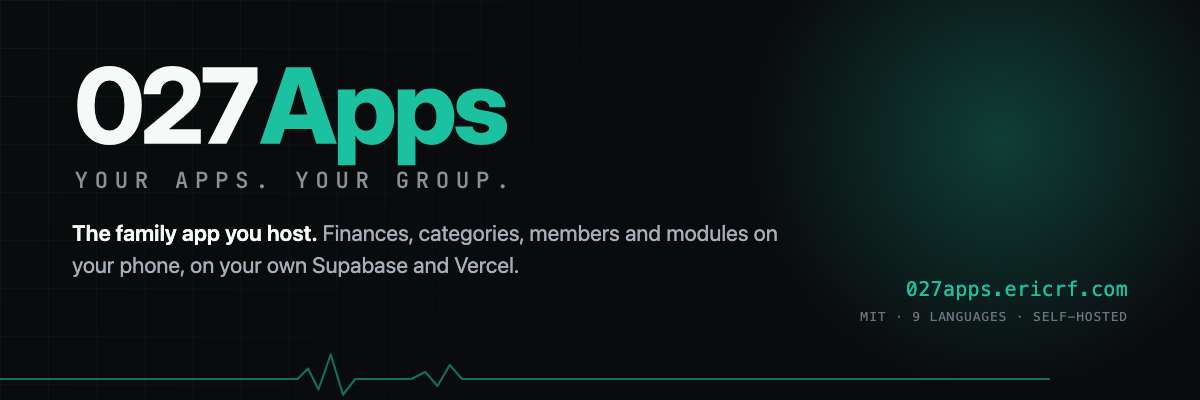
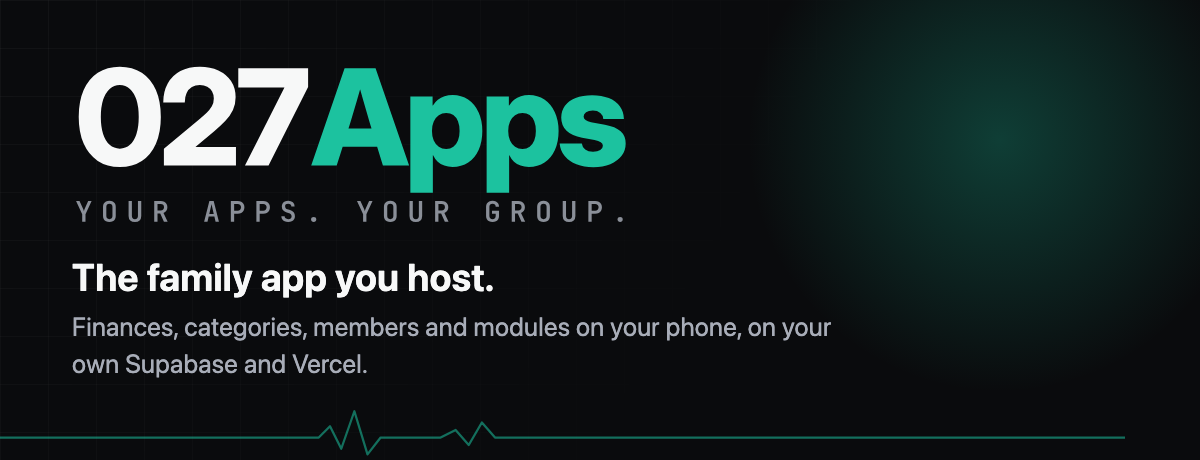
docs: tune the README for a phone screen
The wide banner now carries only the wordmark and two lines, so it stays
readable when GitHub scales it down; the screens are stacked instead of a
two-column table, and only the website and license badges remain.

diff --git a/docs/brand/readme-banner.html b/docs/brand/readme-banner.html
@@ -5,7 +5,7 @@
   * { box-sizing: border-box; }
   html, body { margin: 0; padding: 0; }
   body {
-    width: 1200px; height: 400px; overflow: hidden;
+    width: 1200px; height: 460px; overflow: hidden;
     background: #0a0b0d;
     color: #f7f8f8;
     font-family: -apple-system, BlinkMacSystemFont, "Segoe UI", Helvetica, Arial, sans-serif;
@@ -23,29 +23,22 @@
     mask-image: linear-gradient(120deg, rgba(0,0,0,.9), transparent 62%);
   }
   .wrap { position: relative; padding: 64px 72px; }
-  .wordmark { width: 440px; height: auto; display: block; }
+  .wordmark { width: 560px; height: auto; display: block; }
   .tag {
-    margin: 28px 0 0; max-width: 720px;
-    font-size: 22px; line-height: 1.45; color: #a8adb8; letter-spacing: .1px;
+    margin: 30px 0 0; max-width: 780px;
+    font-size: 26px; line-height: 1.4; color: #a8adb8; letter-spacing: .1px;
   }
-  .tag b { color: #f7f8f8; font-weight: 600; }
-  .meta {
-    position: absolute; right: 72px; bottom: 76px; text-align: right;
-    font-family: "JetBrains Mono", "SFMono-Regular", Consolas, monospace;
+  .tag b {
+    display: block; margin-bottom: 10px;
+    color: #f7f8f8; font-weight: 650; font-size: 38px; line-height: 1.15;
   }
-  .meta .url { color: #1cc29f; font-size: 20px; letter-spacing: .3px; }
-  .meta .small { margin-top: 8px; color: #6f7480; font-size: 13px; letter-spacing: .8px; text-transform: uppercase; }
-  .pulse { position: absolute; left: 0; right: 0; bottom: 0; height: 56px; opacity: .55; }
+  .pulse { position: absolute; left: 0; right: 0; bottom: 0; height: 60px; opacity: .55; }
 </style>
 <div class="glow"></div>
 <div class="grid"></div>
 <div class="wrap">
   <svg class="wordmark" xmlns="http://www.w3.org/2000/svg" viewBox="0 0 418.1 120.3" width="418" height="120"><g fill="#F7F8F8"><path d="M35.25718304774425 77.09765625Q25.683607578277588 77.09765625 18.797852516174316 72.53906321525574Q11.912097454071045 67.98047018051147 8.225568056106567 59.582032680511475Q4.53903865814209 51.183595180511475 4.53903865814209 39.57921609681906Q4.53903865814209 27.962889194488525 8.224275405244315 19.54648228183047Q11.90951215234654 11.130075369172417 18.791066099147493 6.565037684586208Q25.672620045948445 2.0 35.256258362436505 2.0Q44.87700653076172 2.0 51.75006580352783 6.558593034744263Q58.623125076293945 11.117186069488525 62.303795337677 19.540037631988525Q65.98446559906006 27.962889194488525 65.98446559906006 39.60214896814009Q65.98446559906006 51.19258061679166 62.303795337677 59.605080324570146Q58.623125076293945 68.01758003234863 51.75006580352783 72.55761814117432Q44.87700653076172 77.09765625 35.25718304774425 77.09765625ZM35.26586430137222 63.34757995605469Q39.67775297164917 63.34757995605469 42.85254669189453 60.48235487937927Q46.02734041213989 57.61712980270386 47.736318826675415 52.293904542922974Q49.44529724121094 46.97067928314209 49.44529724121094 39.592956321535134Q49.44529724121094 32.17580509185791 47.736318826675415 26.846720695495605Q46.02734041213989 21.5176362991333 42.8451247215271 18.633856296539307Q39.66290903091431 15.750076293945312 35.27288508415222 15.750076293945312Q30.882861137390137 15.750076293945312 27.689512491226196 18.633856296539307Q24.496163845062256 21.5176362991333 22.787185430526733 26.846720695495605Q21.07820701599121 32.17580509185791 21.07820701599121 39.592956321535134Q21.07820701599121 46.97067928314209 22.787185430526733 52.293904542922974Q24.496163845062256 57.61712980270386 27.69362466399734 60.48235487937927Q30.89108548293243 63.34757995605469 35.26586430137222 63.34757995605469Z"/><path d="M68.28319835662842 75.92578125V63.39446496963501L95.27540016174316 40.94916772842407Q97.94724988937378 38.66794300079346 100.31443047523499 36.46580767631531Q102.68161106109619 34.26367235183716 104.16012811660767 31.688483476638794Q105.63864517211914 29.11329460144043 105.63864517211914 25.847675323486328Q105.63864517211914 22.802772045135498 104.35154247283936 20.53325366973877Q103.06443977355957 18.26373529434204 100.72753834724426 17.006905794143677Q98.39063692092896 15.750076293945312 95.19924926757812 15.750076293945312Q91.77739429473877 15.750076293945312 89.2324845790863 17.28717875480652Q86.68757486343384 18.824281215667725 85.29597926139832 21.736379384994507Q83.9043836593628 24.64847755432129 83.9043836593628 28.78518295288086H67.7968602180481Q67.7968602180481 20.582046031951904 71.14061522483826 14.570321559906006Q74.48437023162842 8.558597087860107 80.63477087020874 5.279298543930054Q86.78517150878906 2.0 95.22464084625244 2.0Q102.9883246421814 2.0 109.02935075759888 4.789062261581421Q115.07037687301636 7.578124523162842 118.51276564598083 12.719728469848633Q121.95515441894531 17.861332416534424 121.95515441894531 24.912120819091797Q121.95515441894531 30.15626859664917 119.96784615516663 34.375019788742065Q117.98053789138794 38.59377098083496 114.3408875465393 42.428727865219116Q110.70123720169067 46.26368474960327 105.73835182189941 50.441410064697266L92.07241344451904 62.00382900238037V62.10148525238037H122.20905828475952V75.92578125Z"/><path d="M128.94335412979126 75.92578125 158.49018716812134 17.67586660385132V17.58992862701416H123.95116710662842V3.171875H176.19733238220215V17.187573432922363L146.59580612182617 75.92578125Z"/></g><g fill="#1CC29F"><path d="M178.51170921325684 75.92578125 203.51168537139893 3.171875H226.68373012542725L251.79894590377808 75.92578125H232.1816267967224L222.3164620399475 43.953277587890625Q219.94926357269287 35.93369913101196 217.6055076122284 27.782299041748047Q215.26175165176392 19.63089895248413 212.78910064697266 10.103549480438232H217.55475425720215Q215.00788354873657 19.63089895248413 212.62701773643494 27.782299041748047Q210.2461519241333 35.93369913101196 207.7930154800415 43.953277587890625L197.59972715377808 75.92578125ZM195.68167352676392 61.93562936782837V48.18555307388306H234.66609144210815V61.93562936782837Z"/><path d="M252.72459030151367 96.3359375V24.36328125H269.36532497406006V31.089832305908203H269.57431077957153Q271.12313747406006 28.46874189376831 273.30965638160706 26.731439352035522Q275.49617528915405 24.994136810302734 278.3057415485382 24.11620807647705Q281.11530780792236 23.238279342651367 284.43562030792236 23.238279342651367Q290.9883522987366 23.238279342651367 295.96198439598083 26.644529819488525Q300.9356164932251 30.050780296325684 303.75592947006226 36.09960865974426Q306.5762424468994 42.14843702316284 306.5762424468994 50.070311546325684Q306.5762424468994 58.20312690734863 303.811594247818 64.27051019668579Q301.0469460487366 70.33789348602295 296.05475902557373 73.69433832168579Q291.0625720024109 77.05078315734863 284.28718090057373 77.05078315734863Q280.8926486968994 77.05078315734863 278.0996823310852 76.0429699420929Q275.306715965271 75.03515672683716 273.1875801086426 73.08203172683716Q271.06844425201416 71.12890672683716 269.7325134277344 68.26172065734863H269.56063747406006V96.3359375ZM279.566433429718 63.60539388656616Q282.68555641174316 63.60539388656616 284.9160099029541 61.983330965042114Q287.14646339416504 60.361268043518066 288.3573913574219 57.326128005981445Q289.5683193206787 54.290987968444824 289.5683193206787 50.070311546325684Q289.5683193206787 45.8379168510437 288.3573913574219 42.83988666534424Q287.14646339416504 39.841856479644775 284.9160099029541 38.21979355812073Q282.68555641174316 36.59773063659668 279.566433429718 36.59773063659668Q276.414110660553 36.59773063659668 273.99322628974915 38.266666650772095Q271.5723419189453 39.93560266494751 270.2246928215027 42.945351123809814Q268.87704372406006 45.95509958267212 268.87704372406006 50.070311546325684Q268.87704372406006 54.173805236816406 270.2246928215027 57.22066354751587Q271.5723419189453 60.26752185821533 273.99322628974915 61.93645787239075Q276.414110660553 63.60539388656616 279.566433429718 63.60539388656616Z"/><path d="M309.8085746765137 96.3359375V24.36328125H326.44930934906006V31.089832305908203H326.65829515457153Q328.20712184906006 28.46874189376831 330.39364075660706 26.731439352035522Q332.58015966415405 24.994136810302734 335.3897259235382 24.11620807647705Q338.19929218292236 23.238279342651367 341.51960468292236 23.238279342651367Q348.0723366737366 23.238279342651367 353.04596877098083 26.644529819488525Q358.0196008682251 30.050780296325684 360.83991384506226 36.09960865974426Q363.6602268218994 42.14843702316284 363.6602268218994 50.070311546325684Q363.6602268218994 58.20312690734863 360.895578622818 64.27051019668579Q358.1309304237366 70.33789348602295 353.13874340057373 73.69433832168579Q348.1465563774109 77.05078315734863 341.37116527557373 77.05078315734863Q337.9766330718994 77.05078315734863 335.1836667060852 76.0429699420929Q332.390700340271 75.03515672683716 330.2715644836426 73.08203172683716Q328.15242862701416 71.12890672683716 326.8164978027344 68.26172065734863H326.64462184906006V96.3359375ZM336.650417804718 63.60539388656616Q339.76954078674316 63.60539388656616 341.9999942779541 61.983330965042114Q344.23044776916504 60.361268043518066 345.4413757324219 57.326128005981445Q346.6523036956787 54.290987968444824 346.6523036956787 50.070311546325684Q346.6523036956787 45.8379168510437 345.4413757324219 42.83988666534424Q344.23044776916504 39.841856479644775 341.9999942779541 38.21979355812073Q339.76954078674316 36.59773063659668 336.650417804718 36.59773063659668Q333.498095035553 36.59773063659668 331.07721066474915 38.266666650772095Q328.6563262939453 39.93560266494751 327.3086771965027 42.945351123809814Q325.96102809906006 45.95509958267212 325.96102809906006 50.070311546325684Q325.96102809906006 54.173805236816406 327.3086771965027 57.22066354751587Q328.6563262939453 60.26752185821533 331.07721066474915 61.93645787239075Q333.498095035553 63.60539388656616 336.650417804718 63.60539388656616Z"/><path d="M389.68558979034424 77.20898580551147Q382.5351781845093 77.20898580551147 377.0224697589874 75.04980158805847Q371.5097613334656 72.89061737060547 368.22557520866394 68.88866019248962Q364.9413890838623 64.88670301437378 364.4511528015137 59.41990804672241H381.0411043167114Q381.4063377380371 62.26558876037598 383.57331824302673 63.94624304771423Q385.74029874801636 65.62689733505249 389.4160575866699 65.62689733505249Q392.89454889297485 65.62689733505249 394.84472942352295 64.40132451057434Q396.79490995407104 63.17575168609619 396.79490995407104 61.20506715774536Q396.79490995407104 59.53711462020874 395.2031202316284 58.484389305114746Q393.6113305091858 57.43166399002075 390.55274200439453 56.8730731010437L381.2128849029541 55.21682691574097Q373.5898323059082 53.84183120727539 369.60643005371094 49.9941725730896Q365.6230278015137 46.14651393890381 365.6230278015137 40.04885149002075Q365.6230278015137 34.949233055114746 368.3994002342224 31.184579849243164Q371.17577266693115 27.419926643371582 376.36426162719727 25.36133122444153Q381.5527505874634 23.302735805511475 388.7402720451355 23.302735805511475Q395.9668583869934 23.302735805511475 401.2412853240967 25.477542400360107Q406.51571226119995 27.65234899520874 409.45712399482727 31.623055458068848Q412.3985357284546 35.593761920928955 412.5450201034546 41.09181356430054H397.09180068969727Q397.04297256469727 38.40042543411255 394.86231875419617 36.605515003204346Q392.68166494369507 34.81060457229614 389.33402967453003 34.81060457229614Q386.0449857711792 34.81060457229614 384.21492052078247 36.08500552177429Q382.38485527038574 37.35940647125244 382.38485527038574 39.23243474960327Q382.38485527038574 40.863277435302734 383.8467605113983 41.94041681289673Q385.3086657524109 43.01755619049072 387.9434175491333 43.52536392211914L398.32235050201416 45.404269218444824Q406.30087327957153 46.86520290374756 410.0831038951874 50.28219413757324Q413.8653345108032 53.699185371398926 413.8653345108032 59.45114088058472Q413.8653345108032 64.75583505630493 410.8321256637573 68.74900650978088Q407.7989168167114 72.74217796325684 402.34773230552673 74.97558188438416Q396.89654779434204 77.20898580551147 389.68558979034424 77.20898580551147Z"/></g><g fill="#8A8F98"><path d="M7.133021453710702 118.06165810695062V112.38666521659265L2.5552925476661095 102.56012565502755H5.131526467249943L7.712579212555518 108.17889199953814Q7.986192085192753 108.78493904297169 8.167724948846377 109.33978444301165Q8.3492578125 109.89462984305162 8.410520925521851 110.20545835898473Q8.481180619093088 109.89462984305162 8.6592360999034 109.33978444301165Q8.83729158071371 108.78493904297169 9.101507872801559 108.17889199953814L11.618855690222519 102.56012565502755H14.185693029256967L9.607964123212373 112.38666521659265V118.06165810695062Z"/><path d="M27.481971153846153 118.274007866566Q26.014686676538904 118.274007866566 24.944947544794815 117.71964201615407Q23.87520841305072 117.16527616574214 23.296130203833943 116.13782164647029Q22.717051994617165 115.11036712719844 22.717051994617165 113.72069710914906V106.90108665282911Q22.717051994617165 105.49957823936757 23.296130203833943 104.47804291780179Q23.87520841305072 103.45650759623601 24.944947544794815 102.90214174582408Q26.014686676538904 102.34777589541216 27.481971153846153 102.34777589541216Q28.958652211702784 102.34777589541216 30.02369305317218 102.90214174582408Q31.088733894641578 103.45650759623601 31.667812103858356 104.47804291780179Q32.246890313075134 105.49957823936757 32.246890313075134 106.88924825741695V113.72069710914906Q32.246890313075134 115.11036712719844 31.667812103858356 116.13782164647029Q31.088733894641578 117.16527616574214 30.02369305317218 117.71964201615407Q28.958652211702784 118.274007866566 27.481971153846153 118.274007866566ZM27.481971153846153 116.09354236676143Q28.603282607885504 116.09354236676143 29.187615125729483 115.47613647754376Q29.771947643573462 114.8587305883261 29.771947643573462 113.72069710914906V106.90108665282911Q29.771947643573462 105.75365659310268 29.192313416004176 105.1409489941597Q28.612679188434893 104.52824139521672 27.481971153846153 104.52824139521672Q26.363101514669562 104.52824139521672 25.7775480893942 105.1409489941597Q25.191994664118837 105.75365659310268 25.191994664118837 106.90108665282911V113.72069710914906Q25.191994664118837 114.8587305883261 25.782246379668894 115.47613647754376Q26.37249809521895 116.09354236676143 27.481971153846153 116.09354236676143Z"/><path d="M46.59344951923077 118.274007866566Q44.34291274620936 118.274007866566 43.09755994851772 117.04134369281621Q41.85220715082608 115.80867951906644 41.85220715082608 113.68311078695152V102.56012565502755H44.327149820327755V113.67371420640212Q44.327149820327755 114.81626063640302 44.89720212789682 115.46082069928829Q45.46725443546588 116.10538076217358 46.59344951923077 116.10538076217358Q47.69840962703411 116.10538076217358 48.27907942258394 115.46082069928829Q48.85974921813377 114.81626063640302 48.85974921813377 113.67371420640212V102.56012565502755H51.334691887635444V113.68311078695152Q51.334691887635444 115.81112133392921 50.095258287649884 117.0425646002476Q48.855824687664324 118.274007866566 46.59344951923077 118.274007866566Z"/><path d="M61.03434520978193 118.06165810695062V102.56012565502755H65.9180190020341Q67.42044798667614 102.56012565502755 68.5361344531866 103.127550808283Q69.65182091969709 103.69497596153846 70.26744988313087 104.72120957337893Q70.88307884656466 105.7474431852194 70.88307884656466 107.13222957354326Q70.88307884656466 108.67542805304895 70.10311859424297 109.82907152065864Q69.32315834192129 110.98271498826834 67.98742599230546 111.45439741024605L71.09542860618004 118.06165810695062H68.3089160629419L65.54274420041304 111.79829929755284H63.49989129873422V118.06165810695062ZM63.49989129873422 109.61783379774828H65.9180190020341Q67.05079817258394 109.61783379774828 67.71170958170524 108.96265624688223Q68.37262099082653 108.30747869601618 68.37262099082653 107.19800563738897Q68.37262099082653 106.05790102225085 67.71170958170524 105.39924608854147Q67.05079817258394 104.74059115483212 65.9180190020341 104.74059115483212H63.49989129873422Z"/><path d="M98.38422611126532 118.06165810695062 102.31550915791436 102.56012565502755H105.53330530716822L109.47154311950389 118.06165810695062H106.9565723129419L106.05944901393009 114.21457360634437H101.80815861225128L100.91103531323945 118.06165810695062ZM102.25616424340467 112.18726588909443H105.59020840681515L104.59837794450613 107.86982874466823Q104.34318755406599 106.75510137741382 104.16616764123623 105.8936786040893Q103.98914772840645 105.03225583076477 103.9278846153846 104.68102849886968Q103.86662150236275 105.03225583076477 103.69899817008238 105.88898031381461Q103.53137483780199 106.74570479686444 103.26678786681248 107.84859376870669Z"/><path d="M118.37817688648516 118.06165810695062V102.56012565502755H123.49994836513811Q125.0284959554672 102.56012565502755 126.15996131891055 103.14457816901009Q127.29142668235389 103.72903068299262 127.91373263224773 104.78766165171571Q128.53603858214157 105.8462926204388 128.53603858214157 107.28567427458795Q128.53603858214157 108.70324711579543 127.90979213072703 109.7707297721276Q127.28354567931247 110.83821242845976 126.15747505009392 111.424430742814Q125.03140442087536 112.01064905716824 123.49994836513811 112.01064905716824H120.85311955598684V118.06165810695062ZM120.85311955598684 109.78320065461673H123.49994836513811Q124.64619689832776 109.78320065461673 125.3358888123656 109.1028261367366Q126.02558072640345 108.42245161885646 126.02558072640345 107.28538735609789Q126.02558072640345 106.13795729637147 125.3358888123656 105.46276567697527Q124.64619689832776 104.78757405757905 123.49994836513811 104.78757405757905H120.85311955598684Z"/><path d="M137.48965525186978 118.06165810695062V102.56012565502755H142.61142673052274Q144.13997432085182 102.56012565502755 145.27143968429516 103.14457816901009Q146.4029050477385 103.72903068299262 147.02521099763234 104.78766165171571Q147.64751694752619 105.8462926204388 147.64751694752619 107.28567427458795Q147.64751694752619 108.70324711579543 147.02127049611164 109.7707297721276Q146.3950240446971 110.83821242845976 145.26895341547853 111.424430742814Q144.14288278625997 112.01064905716824 142.61142673052274 112.01064905716824H139.96459792137145V118.06165810695062ZM139.96459792137145 109.78320065461673H142.61142673052274Q143.75767526371237 109.78320065461673 144.4473671777502 109.1028261367366Q145.13705909178805 108.42245161885646 145.13705909178805 107.28538735609789Q145.13705909178805 106.13795729637147 144.4473671777502 105.46276567697527Q143.75767526371237 104.78757405757905 142.61142673052274 104.78757405757905H139.96459792137145Z"/><path d="M161.30967329318705 118.274007866566Q159.73377212120934 118.274007866566 158.58848966616847 117.74557528239029Q157.44320721112763 117.2171426982146 156.82043814255638 116.2427756188466Q156.19766907398517 115.2684085394786 156.185830678573 113.93304686876444H158.66077334807468Q158.66077334807468 114.93183209676009 159.37251572168788 115.51268723176076Q160.0842580953011 116.09354236676143 161.3378630348352 116.09354236676143Q162.52532123162194 116.09354236676143 163.1945936533121 115.52922391744761Q163.86386607500222 114.96490546813378 163.86386607500222 113.96612024013812Q163.86386607500222 113.14454026442309 163.39773217182892 112.53775186318617Q162.93159826865562 111.93096346194928 162.07243197074303 111.70189167719622L160.20508386428537 111.17515955007994Q158.44332221728104 110.69615168351393 157.47994330479548 109.49778178856923Q156.5165643923099 108.29941189362452 156.5165643923099 106.62710310129019Q156.5165643923099 105.32725661681249 157.10748099693882 104.36594884028801Q157.69839760156776 103.40464106376355 158.77405593101793 102.87028928188178Q159.8497142604681 102.3359375 161.31455692291257 102.3359375Q163.50345990401047 102.3359375 164.8055628639001 103.49080187504109Q166.10766582378972 104.64566625008217 166.11950421920187 106.58256201340602H163.6445615497002Q163.6445615497002 105.61440834192129 163.0295974753453 105.06540567086293Q162.4146334009904 104.51640299980457 161.28392536640166 104.51640299980457Q160.19324546887322 104.51640299980457 159.5923762653424 105.03111139205785Q158.99150706181157 105.54581978431115 158.99150706181157 106.47601645469666Q158.99150706181157 107.30943482582386 159.4494652918669 107.91152493678607Q159.90742352192217 108.51361504774827 160.75963505414813 108.75452522791349L162.67640787821549 109.30249233099131Q164.45207905659308 109.7815001975573 165.39544390054849 110.97291532681538Q166.3388087445039 112.16433045607347 166.3388087445039 113.87666738546812Q166.3388087445039 115.18835226535798 165.71134138565796 116.18151250582476Q165.08387402681203 117.17467274629153 163.955128257458 117.72434030642876Q162.826382488104 118.274007866566 161.30967329318705 118.274007866566Z"/><path d="M180.37379807692307 118.274007866566Q179.4916963459895 118.274007866566 178.96692648410794 117.75515720239054Q178.4421566222264 117.23630653821506 178.4421566222264 116.36604320269365Q178.4421566222264 115.46270649579856 178.96692648410794 114.93671572648563Q179.4916963459895 114.41072495717269 180.37379807692307 114.41072495717269Q181.265296388406 114.41072495717269 181.78536796001285 114.93671572648563Q182.3054395316197 115.46270649579856 182.3054395316197 116.36604320269365Q182.3054395316197 117.23630653821506 181.78536796001285 117.75515720239054Q181.265296388406 118.274007866566 180.37379807692307 118.274007866566Z"/><path d="M217.35928347294146 118.06165810695062V112.38666521659265L212.78155456689686 102.56012565502755H215.3577884864807L217.93884123178626 108.17889199953814Q218.2124541044235 108.78493904297169 218.39398696807712 109.33978444301165Q218.57551983173073 109.89462984305162 218.63678294475258 110.20545835898473Q218.70744263832384 109.89462984305162 218.88549811913416 109.33978444301165Q219.06355359994447 108.78493904297169 219.3277698920323 108.17889199953814L221.84511770945326 102.56012565502755H224.4119550484877L219.83422614244313 112.38666521659265V118.06165810695062Z"/><path d="M237.7082331730769 118.274007866566Q236.24094869576965 118.274007866566 235.17120956402556 117.71964201615407Q234.10147043228147 117.16527616574214 233.52239222306468 116.13782164647029Q232.94331401384792 115.11036712719844 232.94331401384792 113.72069710914906V106.90108665282911Q232.94331401384792 105.49957823936757 233.52239222306468 104.47804291780179Q234.10147043228147 103.45650759623601 235.17120956402556 102.90214174582408Q236.24094869576965 102.34777589541216 237.7082331730769 102.34777589541216Q239.18491423093354 102.34777589541216 240.24995507240294 102.90214174582408Q241.31499591387234 103.45650759623601 241.89407412308913 104.47804291780179Q242.4731523323059 105.49957823936757 242.4731523323059 106.88924825741695V113.72069710914906Q242.4731523323059 115.11036712719844 241.89407412308913 116.13782164647029Q241.31499591387234 117.16527616574214 240.24995507240294 117.71964201615407Q239.18491423093354 118.274007866566 237.7082331730769 118.274007866566ZM237.7082331730769 116.09354236676143Q238.82954462711626 116.09354236676143 239.41387714496022 115.47613647754376Q239.99820966280421 114.8587305883261 239.99820966280421 113.72069710914906V106.90108665282911Q239.99820966280421 105.75365659310268 239.4185754352349 105.1409489941597Q238.83894120766564 104.52824139521672 237.7082331730769 104.52824139521672Q236.5893635339003 104.52824139521672 236.00381010862492 105.1409489941597Q235.41825668334957 105.75365659310268 235.41825668334957 106.90108665282911V113.72069710914906Q235.41825668334957 114.8587305883261 236.00850839889964 115.47613647754376Q236.5987601144497 116.09354236676143 237.7082331730769 116.09354236676143Z"/><path d="M256.8197115384615 118.274007866566Q254.5691747654401 118.274007866566 253.32382196774847 117.04134369281621Q252.07846917005682 115.80867951906644 252.07846917005682 113.68311078695152V102.56012565502755H254.5534118395585V113.67371420640212Q254.5534118395585 114.81626063640302 255.12346414712755 115.46082069928829Q255.69351645469663 116.10538076217358 256.8197115384615 116.10538076217358Q257.92467164626487 116.10538076217358 258.5053414418147 115.46082069928829Q259.0860112373645 114.81626063640302 259.0860112373645 113.67371420640212V102.56012565502755H261.5609539068662V113.68311078695152Q261.5609539068662 115.81112133392921 260.32152030688064 117.0425646002476Q259.08208670689504 118.274007866566 256.8197115384615 118.274007866566Z"/><path d="M271.2606072290127 118.06165810695062V102.56012565502755H276.1442810212649Q277.64671000590687 102.56012565502755 278.7623964724173 103.127550808283Q279.87808293892783 103.69497596153846 280.4937119023616 104.72120957337893Q281.1093408657954 105.7474431852194 281.1093408657954 107.13222957354326Q281.1093408657954 108.67542805304895 280.32938061347375 109.82907152065864Q279.54942036115204 110.98271498826834 278.2136880115362 111.45439741024605L281.3216906254108 118.06165810695062H278.53517808217265L275.76900621964376 111.79829929755284H273.726153317965V118.06165810695062ZM273.726153317965 109.61783379774828H276.1442810212649Q277.2770601918147 109.61783379774828 277.93797160093595 108.96265624688223Q278.59888301005725 108.30747869601618 278.59888301005725 107.19800563738897Q278.59888301005725 106.05790102225085 277.93797160093595 105.39924608854147Q277.2770601918147 104.74059115483212 276.1442810212649 104.74059115483212H273.726153317965Z"/><path d="M314.2437848287362 118.274007866566Q312.77180206115423 118.274007866566 311.6808279534486 117.71964201615407Q310.589853845743 117.16527616574214 309.98954066056467 116.13782164647029Q309.38922747538635 115.11036712719844 309.38922747538635 113.72069710914906V106.90108665282911Q309.38922747538635 105.49018165881817 309.98954066056467 104.4733446275271Q310.589853845743 103.45650759623601 311.6808279534486 102.90214174582408Q312.77180206115423 102.34777589541216 314.2437848287362 102.34777589541216Q315.71576759631813 102.34777589541216 316.796124216043 102.90806094353016Q317.87648083576784 103.46834599164816 318.4708748232401 104.48305549526768Q319.0652688107123 105.4977649988872 319.0652688107123 106.90108665282911H316.59032614121065Q316.59032614121065 105.75365659310268 315.9736162540761 105.1409489941597Q315.35690636694153 104.52824139521672 314.23734072568186 104.52824139521672Q313.11777508442214 104.52824139521672 312.4909726146551 105.13693847687773Q311.864170144888 105.74563555853872 311.864170144888 106.88924825741695V113.72069710914906Q311.864170144888 114.85800777443768 312.4909726146551 115.48169426830563Q313.11777508442214 116.10538076217358 314.23734072568186 116.10538076217358Q315.35690636694153 116.10538076217358 315.9736162540761 115.48068889989719Q316.59032614121065 114.85599703762081 316.59032614121065 113.71685305346976V112.06325694744405H313.82341292087847V109.89914279387548H319.0652688107123V113.72069710914906Q319.0652688107123 115.10242919918414 318.4708748232401 116.12793348475707Q317.87648083576784 117.15343777032999 316.796124216043 117.71372281844799Q315.71576759631813 118.274007866566 314.2437848287362 118.274007866566Z"/><path d="M328.59504232516656 118.06165810695062V102.56012565502755H333.47871611741874Q334.98114510206074 102.56012565502755 336.09683156857125 103.127550808283Q337.2125180350817 103.69497596153846 337.8281469985155 104.72120957337893Q338.44377596194926 105.7474431852194 338.44377596194926 107.13222957354326Q338.44377596194926 108.67542805304895 337.66381570962756 109.82907152065864Q336.8838554573059 110.98271498826834 335.54812310769006 111.45439741024605L338.65612572156465 118.06165810695062H335.8696131783265L333.1034413157976 111.79829929755284H331.06058841411885V118.06165810695062ZM331.06058841411885 109.61783379774828H333.47871611741874Q334.6114952879686 109.61783379774828 335.2724066970899 108.96265624688223Q335.9333181062111 108.30747869601618 335.9333181062111 107.19800563738897Q335.9333181062111 106.05790102225085 335.2724066970899 105.39924608854147Q334.6114952879686 104.74059115483212 333.47871611741874 104.74059115483212H331.06058841411885Z"/><path d="M352.3771033653846 118.274007866566Q350.9098188880773 118.274007866566 349.84007975633324 117.71964201615407Q348.77034062458915 117.16527616574214 348.19126241537236 116.13782164647029Q347.6121842061556 115.11036712719844 347.6121842061556 113.72069710914906V106.90108665282911Q347.6121842061556 105.49957823936757 348.19126241537236 104.47804291780179Q348.77034062458915 103.45650759623601 349.84007975633324 102.90214174582408Q350.9098188880773 102.34777589541216 352.3771033653846 102.34777589541216Q353.8537844232412 102.34777589541216 354.9188252647106 102.90214174582408Q355.98386610618 103.45650759623601 356.56294431539675 104.47804291780179Q357.14202252461354 105.49957823936757 357.14202252461354 106.88924825741695V113.72069710914906Q357.14202252461354 115.11036712719844 356.56294431539675 116.13782164647029Q355.98386610618 117.16527616574214 354.9188252647106 117.71964201615407Q353.8537844232412 118.274007866566 352.3771033653846 118.274007866566ZM352.3771033653846 116.09354236676143Q353.49841481942394 116.09354236676143 354.0827473372679 115.47613647754376Q354.66707985511187 114.8587305883261 354.66707985511187 113.72069710914906V106.90108665282911Q354.66707985511187 105.75365659310268 354.0874456275426 105.1409489941597Q353.5078113999733 104.52824139521672 352.3771033653846 104.52824139521672Q351.258233726208 104.52824139521672 350.6726803009326 105.1409489941597Q350.08712687565725 105.75365659310268 350.08712687565725 106.90108665282911V113.72069710914906Q350.08712687565725 114.8587305883261 350.67737859120734 115.47613647754376Q351.2676303067574 116.09354236676143 352.3771033653846 116.09354236676143Z"/><path d="M371.4885817307692 118.274007866566Q369.23804495774783 118.274007866566 367.9926921600562 117.04134369281621Q366.7473393623645 115.80867951906644 366.7473393623645 113.68311078695152V102.56012565502755H369.2222820318662V113.67371420640212Q369.2222820318662 114.81626063640302 369.79233433943523 115.46082069928829Q370.3623866470043 116.10538076217358 371.4885817307692 116.10538076217358Q372.59354183857255 116.10538076217358 373.1742116341224 115.46082069928829Q373.75488142967225 114.81626063640302 373.75488142967225 113.67371420640212V102.56012565502755H376.2298240991739V113.68311078695152Q376.2298240991739 115.81112133392921 374.9903904991884 117.0425646002476Q373.7509568992028 118.274007866566 371.4885817307692 118.274007866566Z"/><path d="M385.93887400186975 118.06165810695062V102.56012565502755H391.0606454805227Q392.5891930708518 102.56012565502755 393.72065843429516 103.14457816901009Q394.8521237977385 103.72903068299262 395.4744297476323 104.78766165171571Q396.0967356975261 105.8462926204388 396.0967356975261 107.28567427458795Q396.0967356975261 108.70324711579543 395.4704892461116 109.7707297721276Q394.84424279469704 110.83821242845976 393.71817216547845 111.424430742814Q392.5921015362599 112.01064905716824 391.0606454805227 112.01064905716824H388.4138166713714V118.06165810695062ZM388.4138166713714 109.78320065461673H391.0606454805227Q392.2068940137124 109.78320065461673 392.8965859277502 109.1028261367366Q393.58627784178805 108.42245161885646 393.58627784178805 107.28538735609789Q393.58627784178805 106.13795729637147 392.8965859277502 105.46276567697527Q392.2068940137124 104.78757405757905 391.0606454805227 104.78757405757905H388.4138166713714Z"/><path d="M409.71153846153845 118.274007866566Q408.82943673060487 118.274007866566 408.3046668687233 117.75515720239054Q407.7798970068418 117.23630653821506 407.7798970068418 116.36604320269365Q407.7798970068418 115.46270649579856 408.3046668687233 114.93671572648563Q408.82943673060487 114.41072495717269 409.71153846153845 114.41072495717269Q410.60303677302136 114.41072495717269 411.12310834462824 114.93671572648563Q411.6431799162351 115.46270649579856 411.6431799162351 116.36604320269365Q411.6431799162351 117.23630653821506 411.12310834462824 117.75515720239054Q410.60303677302136 118.274007866566 409.71153846153845 118.274007866566Z"/></g></svg>
   <p class="tag"><b>The family app you host.</b> Finances, categories, members and modules on your phone, on your own Supabase and Vercel.</p>
-</div>
-<div class="meta">
-  <div class="url">027apps.ericrf.com</div>
-  <div class="small">MIT · 9 languages · self-hosted</div>
 </div>
 <svg class="pulse" viewBox="0 0 1200 64" fill="none" preserveAspectRatio="none">
   <polyline points="0,40 320,40 340,40 352,28 364,52 378,12 392,58 406,40 430,40 470,40 486,32 500,48 514,24 528,40 560,40 1200,40"

diff --git a/README.md b/README.md
@@ -5,9 +5,6 @@
 <p align="center">
   <a href="https://027apps.ericrf.com"><img alt="Website" src="https://img.shields.io/badge/website-027apps.ericrf.com-1CC29F?style=flat-square&logo=vercel&logoColor=white"></a>
   <a href="LICENSE"><img alt="License: MIT" src="https://img.shields.io/badge/license-MIT-1CC29F?style=flat-square"></a>
-  <img alt="Next.js 16" src="https://img.shields.io/badge/Next.js-16-0A0B0D?style=flat-square&logo=nextdotjs&logoColor=white">
-  <img alt="Kotlin + Compose" src="https://img.shields.io/badge/Kotlin-Compose-7F52FF?style=flat-square&logo=kotlin&logoColor=white">
-  <img alt="9 languages" src="https://img.shields.io/badge/languages-9-1CC29F?style=flat-square">
 </p>
 
 <h3 align="center">A self-hostable, modular platform for families.</h3>
@@ -37,9 +34,13 @@ public signup: members join with an invitation.
 
 ## Screens
 
-| The family app | The project |
-|:---:|:---:|
-| <img src="docs/brand/readme-app.png" alt="The 027Apps family app landing" width="100%"> | <img src="docs/brand/readme-selfhost.png" alt="The 027Apps self-hosting landing" width="100%"> |
+<p align="center">
+  <img src="docs/brand/readme-app.png" alt="The 027Apps family app landing" width="100%">
+</p>
+
+<p align="center">
+  <img src="docs/brand/readme-selfhost.png" alt="The 027Apps self-hosting landing" width="100%">
+</p>
 
 ## Stack
 

diff --git a/docs/brand/brand.md b/docs/brand/brand.md
@@ -39,7 +39,7 @@ En el admin los iconos viven en `apps/admin/src/app/` (`icon.svg`, `icon.png`, `
 
 `readme-banner.html` y `readme-stack.html` son las composiciones del README: el lockup sobre el
 fondo de marca y la fila de logos de tecnología. Se renderizan a PNG de 1200 px (banner
-1200×400, stack 1200×220) con Chrome headless; los PNG son los que usa `README.md`.
+1200×460, stack 1200×220) con Chrome headless; los PNG son los que usa `README.md`.
 
 ## Pipeline de assets
 
